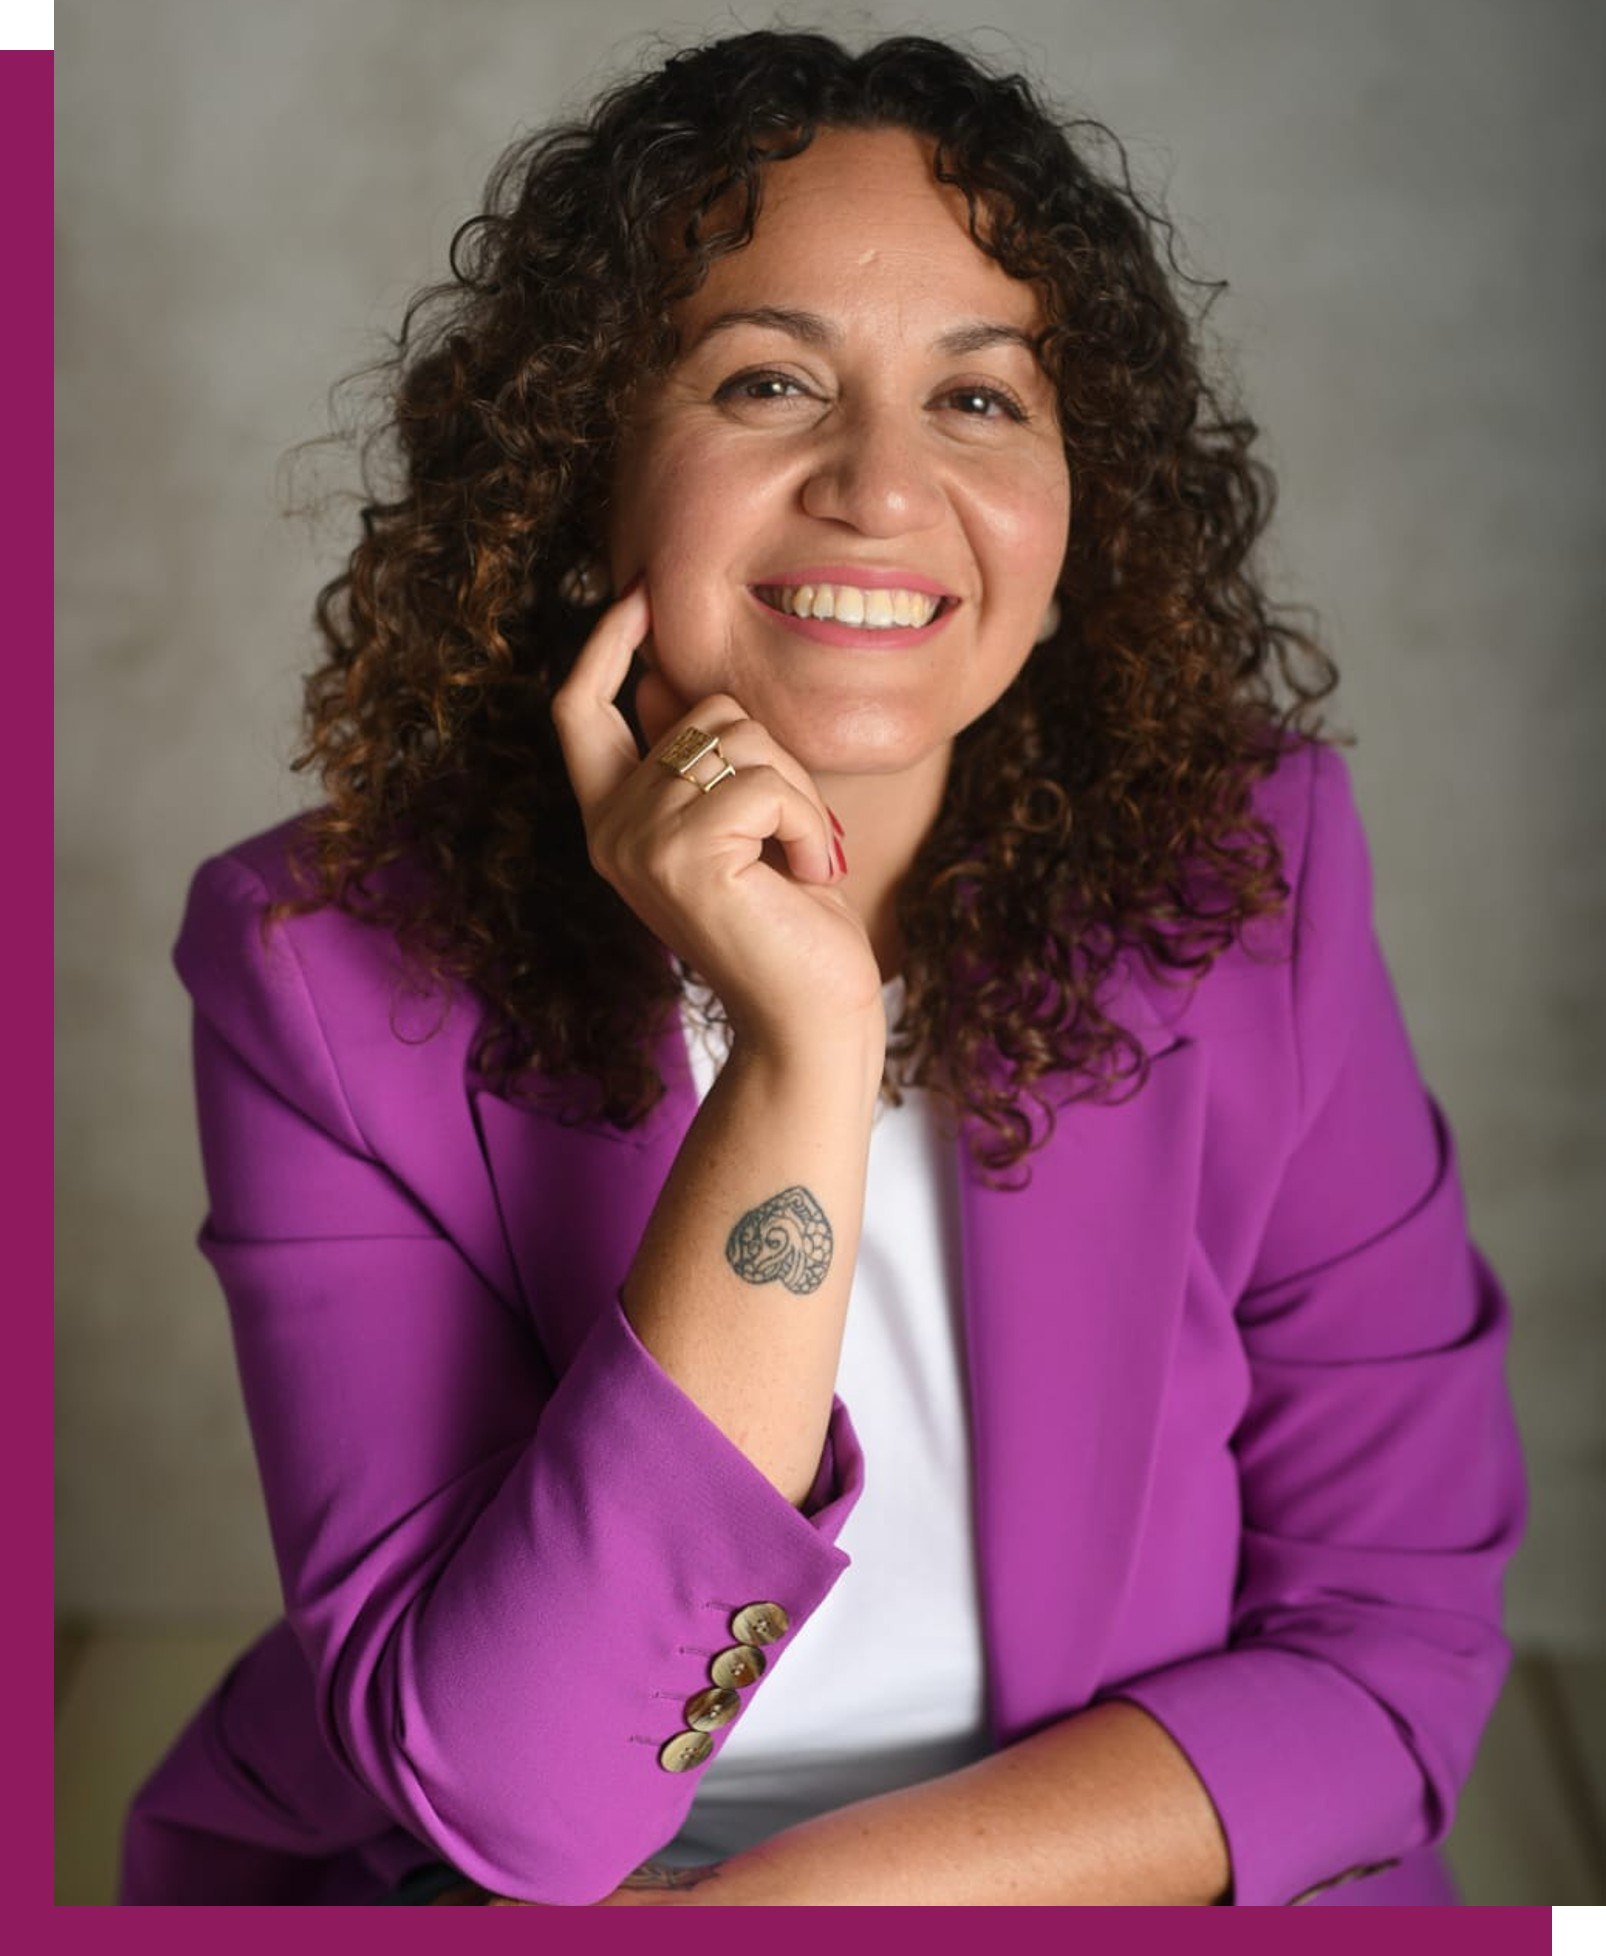
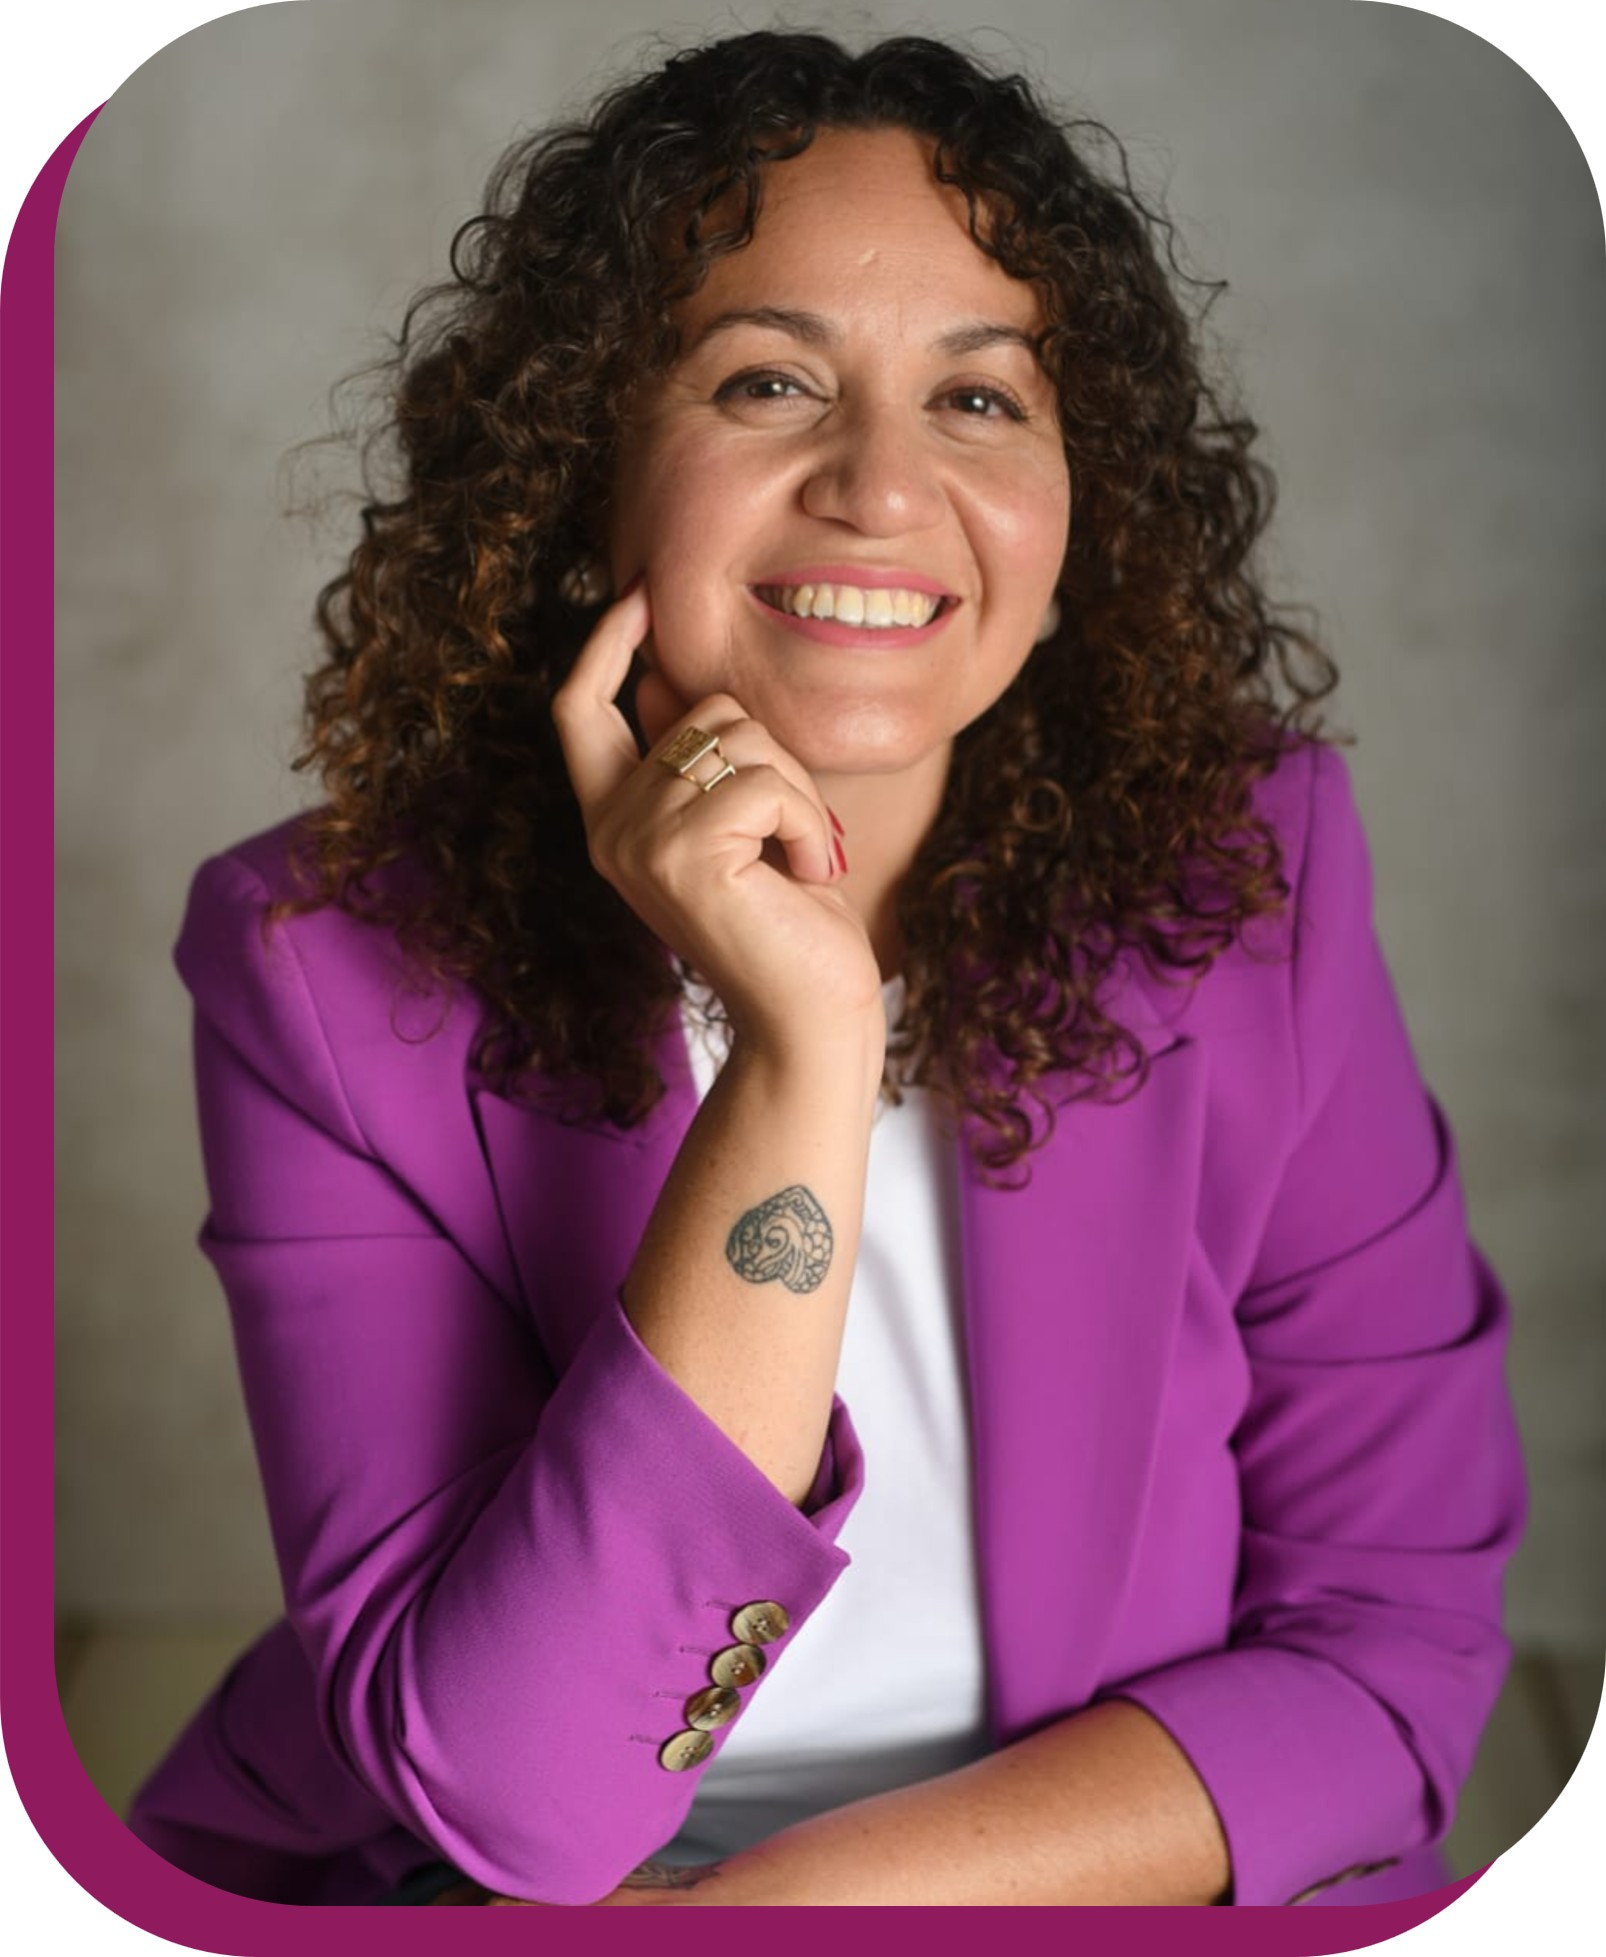
mudei quem somos

diff --git a/css/index.css b/css/index.css
@@ -555,8 +555,10 @@ body .actuacion-button .btn-primary:hover {
 /* ===== HOME: DEPOIMENTOS ===== */
 
 .section-title {
+	font-size: 2rem;
+	margin-bottom: 5rem;
+	color: #636b2f;
 	text-align: center;
-	margin-bottom: 3rem;
 }
 
 /* grid de depoimentos */
@@ -631,14 +633,91 @@ body .actuacion-button .btn-primary:hover {
 .gallery-arrow.left { left: 0; }
 .gallery-arrow.right { right: 0; }
 
-
 /* ===== COLABORADORAS ===== */
-/* seção colaboradores */
-#colaboradores.section-green {
+
+#colaboradores.section-white {
 	border-radius: 24px;
-	margin: 2rem auto;      /* cria espaço para aparecer o arredondado */
-	padding: 3rem 0;       
-	max-width: 1200px;     
+	margin: 2rem auto;
+	padding: 3rem 0;
+	max-width: 1200px;
+}
+
+#colaboradores .section-title {
+	font-size: 2rem;
+	margin-bottom: 5rem;
+	color: #636b2f;
+}
+
+/* grid igual à atuação */
+#colaboradores .partners-grid {
+	display: grid;
+	grid-template-columns: repeat(5, 1fr);
+	gap: 2rem;
+	margin-top: 2rem;
+	text-align: center;
+	align-items: flex-start;
+}
+
+/* item individual */
+#colaboradores .partner-item {
+	display: flex;
+	flex-direction: column;
+	align-items: center;
+}
+
+/* link completo */
+#colaboradores .partner-item a {
+	text-decoration: none;
+	color: inherit;
+	display: flex;
+	flex-direction: column;
+	align-items: center;
+	gap: 0.8rem;
+}
+
+/* bolinha da foto (mesmo tamanho da atuação) */
+#colaboradores .partner-circle {
+	width: 100px;
+	height: 100px;
+	border-radius: 50%;
+	background-color: #8f1a5d; /* mesma vibe da atuação */
+	display: flex;
+	align-items: center;
+	justify-content: center;
+	overflow: hidden;
+}
+
+/* imagem dentro da bolinha */
+#colaboradores .partner-circle img {
+	width: 100%;
+	height: 100%;
+	object-fit: cover;
+}
+
+/* nome da colaboradora */
+#colaboradores .partner-name {
+	font-size: 1.2rem;
+	font-weight: 600;
+	color: #636b2f;
+	transition: color 0.3s ease;
+}
+
+/* hover no nome */
+#colaboradores .partner-item a:hover .partner-name {
+	color: #b44388;
+}
+
+/* responsivo */
+@media (max-width: 900px) {
+	#colaboradores .partners-grid {
+		grid-template-columns: repeat(3, 1fr);
+	}
+}
+
+@media (max-width: 500px) {
+	#colaboradores .partners-grid {
+		grid-template-columns: repeat(2, 1fr);
+	}
 }
 
 /* ===== BLOG POSTS ===== */
@@ -895,8 +974,7 @@ body.quienes-somos .brand-highlight {
 
 body.quienes-somos .about-split {
 	display: grid;
-	grid-template-columns: 0.5fr 0.6fr;
-	gap: 0.2rem;
+	grid-template-columns: 0.36fr 0.6fr;
 	align-items: center;
 	margin-bottom: 6rem;
 }
@@ -915,11 +993,17 @@ body.quienes-somos .about-text {
 	color: black;               
 	line-height: 1.8;
 	text-align: justify;
-	padding: 3rem 3rem;         
+	padding: 1rem 3.5rem;         
 	border-radius: 16px;
 	font-size: 1.30rem;
 	border-radius: 50px;         
 	box-shadow: 0 0px 12px rgba(0,0,0, 0.5);         
+}
+
+body.quienes-somos .about-text p.founder {
+	text-align: right;     
+	margin-top: 0.5rem;
+	font-style: italic;
 }
 
 /* estado normal */
@@ -949,7 +1033,7 @@ body.quienes-somos .about-text .page-title {
 	top: -2.2rem;               
 	left: 2.5rem;
 	background: #ffffff;       
-	padding: 0.4rem 1.2rem;
+	padding: 0.1rem 1rem;
 	color: #8f1a5d;
 	font-size: 1.8rem;
 	font-weight: 550;
@@ -1005,7 +1089,7 @@ body.quienes-somos .about-image {
 }
 
 body.quienes-somos .about-image img {
-	max-width: 400px;       
+	max-width: 310px;       
 	width: 100%;
 	height: auto;
 	object-fit: contain;   

diff --git a/content/quem-somos/index.md b/content/quem-somos/index.md
@@ -35,7 +35,7 @@ eleventyNavigation:
       los cuerpos y las comunidades, invitándonos a comprender el cuidado 
       como un acto de dignidad y transformación.
     </p>
-    <p> <span class="brand-highlight">Fundadora de Casa Mater</span> </p>
+    <p class="founder"> <span class="brand-highlight"> - Fundadora de Casa Mater</span> </p>
   </div>
 
 </div>
